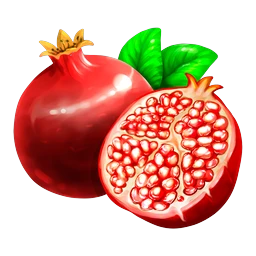
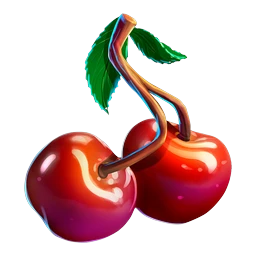
Round 24: Wild Cherry Deluxe gets cherry high symbols
Claude-Session: https://claude.ai/code/session_01LcC21fng844zb5K8BRYuAt

diff --git a/LuckyVault/public/sw.js b/LuckyVault/public/sw.js
@@ -1,5 +1,5 @@
 // Offline cache for the game client (API calls always go to the network).
-const V = 'lv-v79';
+const V = 'lv-v80';
 const FILES = ['./', './index.html', './config.js', './manifest.webmanifest', './js/slots-engine.js', './js/catalog.js', './js/tables-engine.js', './js/tables-ui.js', './js/social.js', './js/fx.js', './js/feat-ui.js', './js/hov-ui.js', './js/roadmap.js', './js/vegas.js', './js/rules.js', './js/onboard.js', './js/friends-ui.js', './js/rg.js', './js/support-ui.js', './js/replay.js', './js/fx2.js', './js/i18n.js', './js/iap.js', './assets/fonts/Anton.woff2', './assets/fonts/Cinzel.woff2', './icons/icon-192.png', './icons/icon-512.png'];
 self.addEventListener('install', e => { e.waitUntil(caches.open(V).then(c => c.addAll(FILES)).then(() => self.skipWaiting())); });
 self.addEventListener('activate', e => { e.waitUntil(caches.keys().then(ks => Promise.all(ks.filter(k => k !== V).map(k => caches.delete(k)))).then(() => self.clients.claim())); });

diff --git a/LuckyVault/tools/build_skins.py b/LuckyVault/tools/build_skins.py
@@ -297,3 +297,4 @@ json.dump(man, open(OUT + '/manifest.json', 'w'), indent=1, ensure_ascii=False)
 # round 21: thunder-temple <- lightning-mage tiles (gold rim) 23,44,13,25,9,10,31,46,34 ; fiesta-loca <- fruits-512 5 corn,17 avocado,45 pineapple,40 garlic,3,24,25,1,34
 # round 22: triple-sevens: 777/BAR/diamond/star hue +190 (cyan), lows -> kit items 10 cards, 14 dice, 15 banana (was 7/11 identical to lucky-777)
 # round 23: buffalo-wild-reels <- CraftPix hunting-trophy loot icons (cpx eb4d967a): 3 skull,7 stag,8 boar,13 horns,17 bear paw,25 pelt,5 fang,47 feather,42 antler (W/S kept)
+# round 24: wild-cherry-deluxe highs <- fruits-512 30 cherries,31 raspberry,38 strawberry,11 mango (game had no cherry symbol)

diff --git a/LuckyVault/CHANGELOG.md b/LuckyVault/CHANGELOG.md
@@ -401,3 +401,6 @@ Platform release: everything on the "do all of these" list except the public dep
 - Buffalo Wild Reels shared 9/11 with Buffalo Stampede (viking loot). Now a frontier hunting-trophy set (stag skull, boar, horns, bear paw, pelt...) + cover.
 - Load check (phone, cold): 0.73s, 67 requests, 1.2 MB, gzip on.
 - sw lv-v79. Tests 90/90.
+
+## Round 24 (19:20) — Wild Cherry Deluxe finally has cherries
+- Top symbol is now cherries (+ raspberry, strawberry, mango); no longer mirrors Monkey Business' fruit. New cover. sw lv-v80. Tests 90/90.
